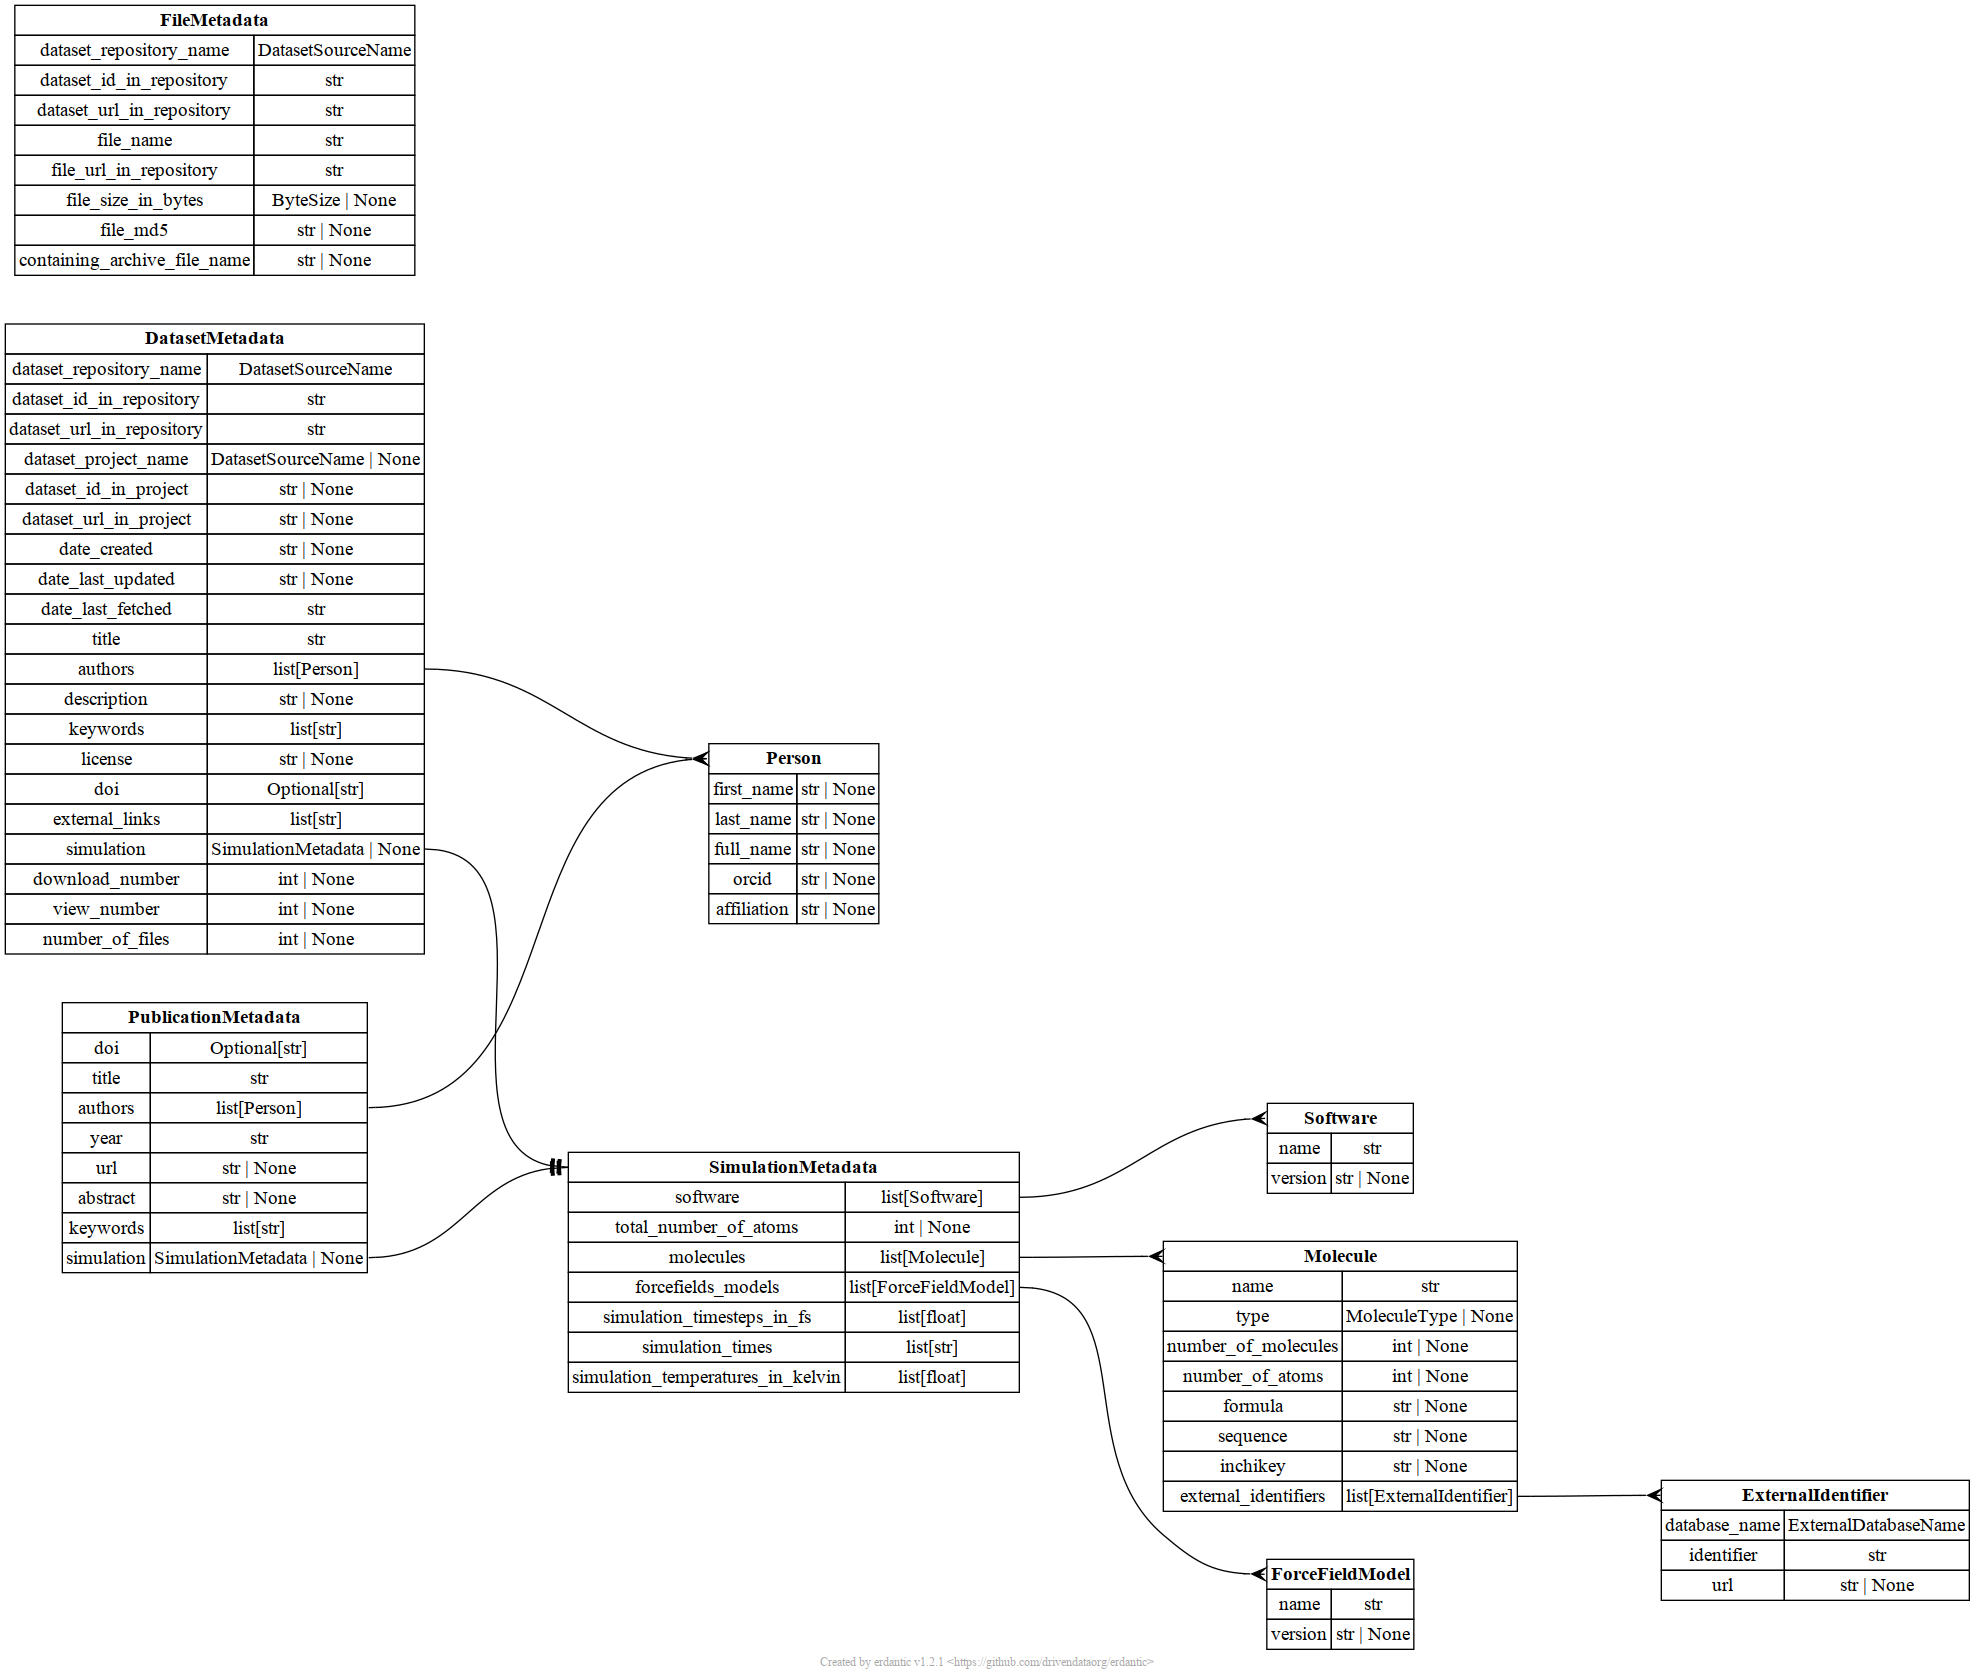
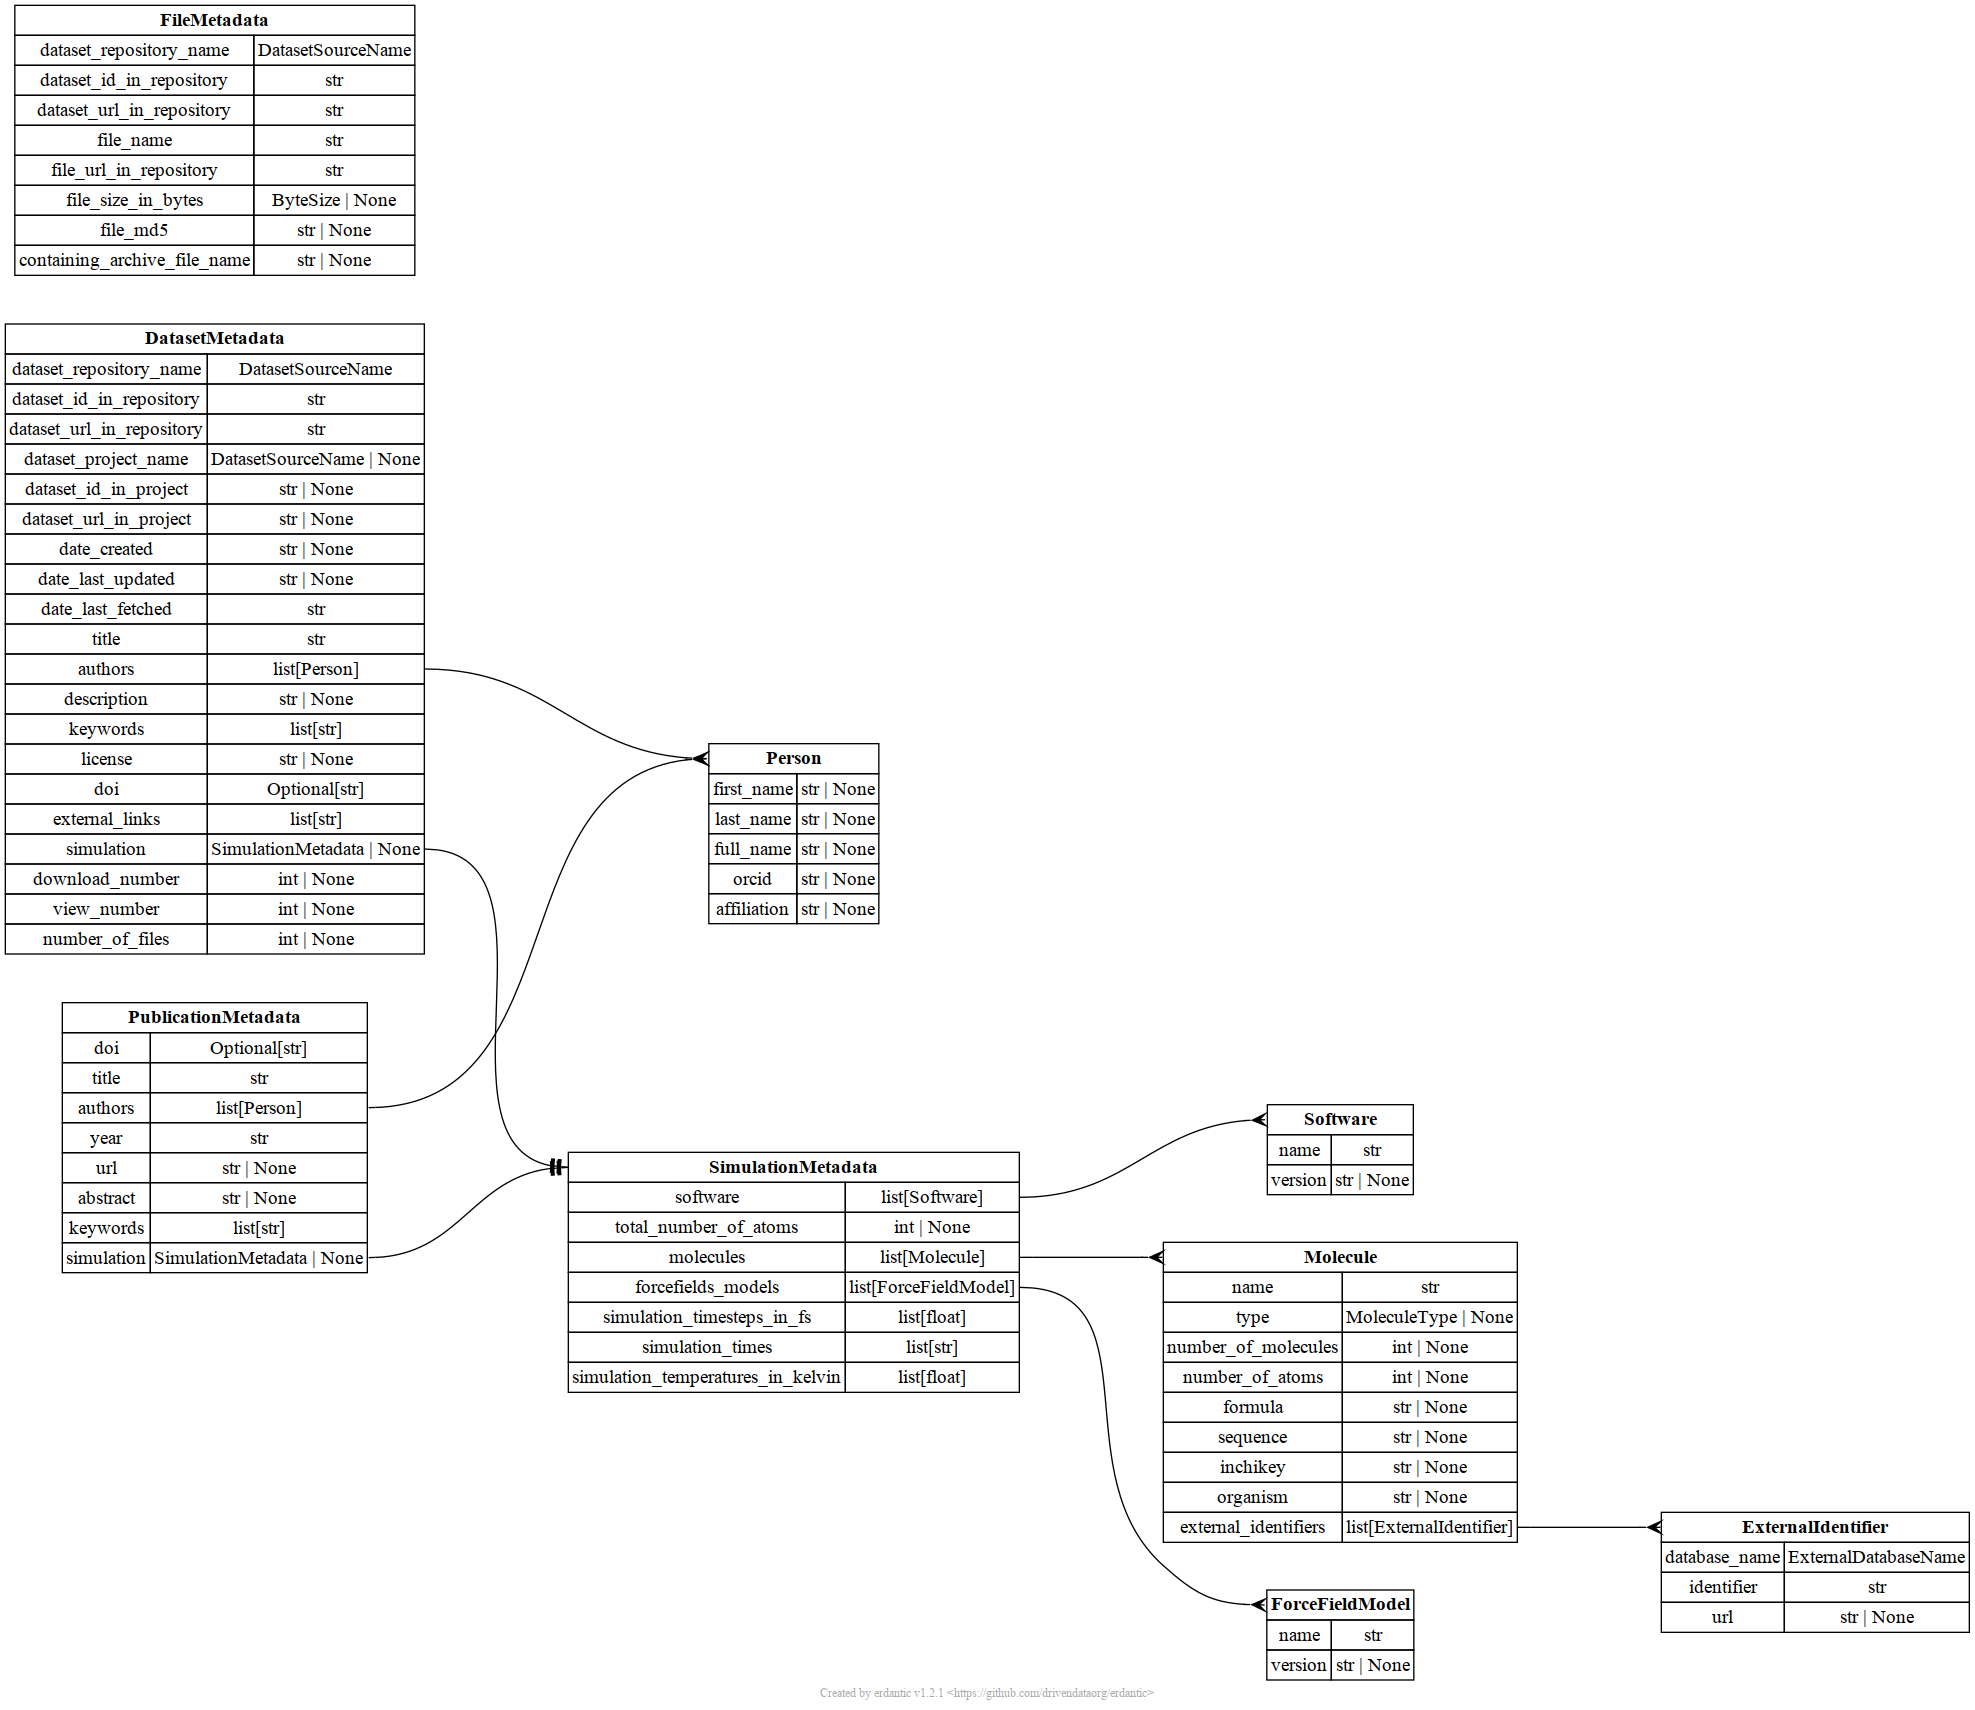
feat: Add 'organism' field in Molecule model

diff --git a/src/mdverse/models/simulation.py b/src/mdverse/models/simulation.py
@@ -77,6 +77,9 @@ class Molecule(BaseModel):
         None, description="Sequence of the molecule for protein and nucleic acid."
     )
     inchikey: str | None = Field(None, description="InChIKey of the molecule.")
+    organism: str | None = Field(
+        None, description="Organism the molecule is coming from."
+    )
     external_identifiers: list[ExternalIdentifier] = Field(
         default_factory=list,
         description=("List of external database identifiers for this molecule."),

diff --git a/README.md b/README.md
@@ -48,7 +48,7 @@ Soon:
 Generate a visual diagram of the Pydantic model schema to see how scraped medadata are represented:
 
 ```sh
-uv run draw-pydantic-schema --out_path data/models/pydantic_schema.png
+uv run draw-pydantic-schema --out-path data/models/pydantic_schema.png
 ```
 
 ### Scraping Zenodo, Figshare and OSF
